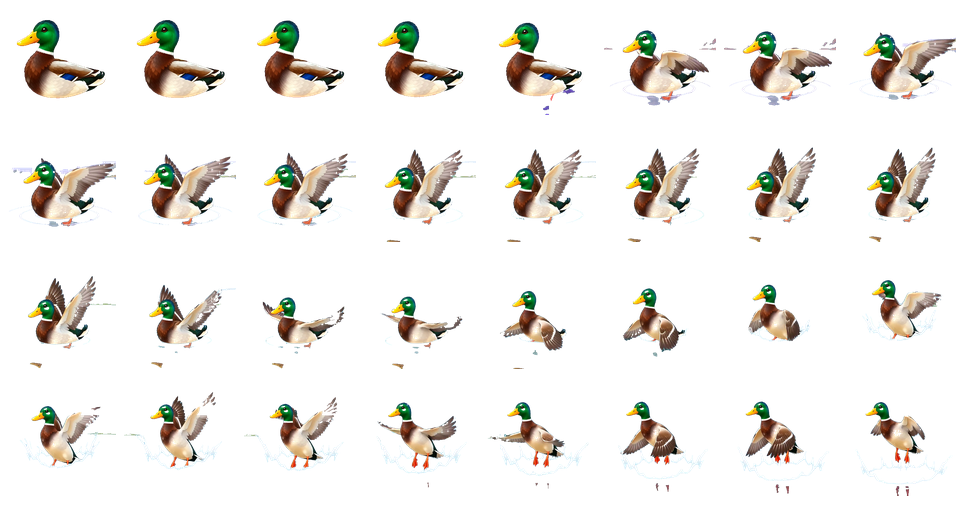
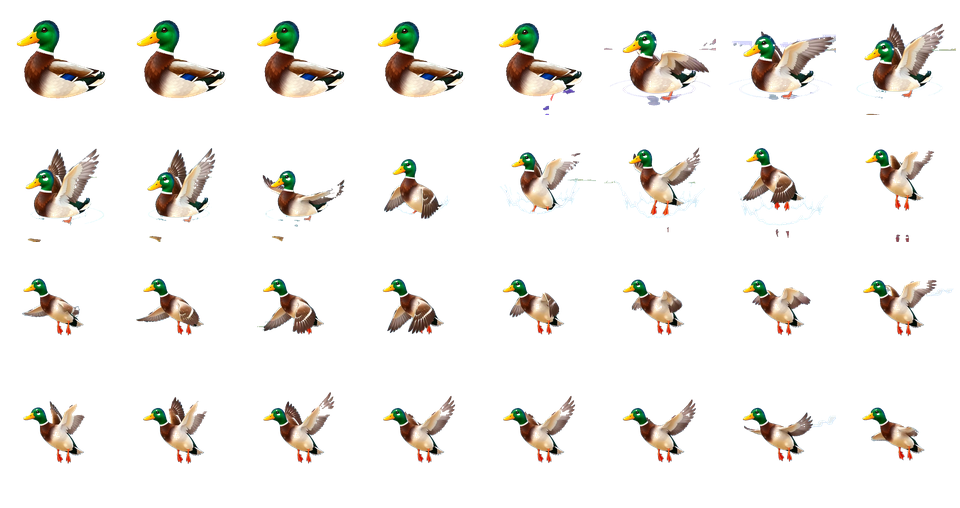
Fix ram look-around, duck flight loop and animal animation sizes

diff --git a/src/view/screen/ForestScreen.ts b/src/view/screen/ForestScreen.ts
@@ -1968,6 +1968,9 @@ export default class ForestScreen extends BaseForestScreen {
                 sprite.anchor.set(0.5);
                 sprite.width = 120;
                 sprite.height = 127;
+                if (animal == 'crab' || animal == 'bird') {
+                    sprite.scale.set(sprite.scale.x * 1.25, sprite.scale.y * 1.25);
+                }
                 sprite.alpha = 1;
                 const introCount = animal == 'butterfly2' ? 16 : animal == 'crab' ? 20 : 4;
                 const intro = sprite.animations.add('greet', Phaser.ArrayUtils.numberArray(0, introCount - 1), animal == 'butterfly2' ? 16 : 24, false);
@@ -1991,7 +1994,7 @@ export default class ForestScreen extends BaseForestScreen {
             });
             return;
         }
-        const introFrames = animal == 'butterfly' ? 4 : animal == 'duck' ? 2 : animal == 'fish' ? 8 : animal == 'ram' ? 6 : 12;
+        const introFrames = animal == 'butterfly' ? 4 : animal == 'duck' ? 16 : animal == 'fish' ? 8 : animal == 'ram' ? 14 : 12;
         const frameCount = animal == 'butterfly' ? 24 : 32;
         const frameRate = animal == 'bat' ? 13 : animal == 'rabbit' ? 24 : animal == 'ram' ? 16 : animal == 'fish' ? 22 : 30;
         const direction = animal == 'duck' || animal == 'ram' ? -1 : this.game.rnd.pick([-1, 1]);
@@ -2022,7 +2025,9 @@ export default class ForestScreen extends BaseForestScreen {
                 this.game.add.tween(sprite.scale).to({ x: sprite.scale.x * 1.95, y: sprite.scale.y * 1.95 },
                     1000, Phaser.Easing.Sinusoidal.Out, true);
             }
-            const intro = sprite.animations.add('look', Phaser.ArrayUtils.numberArray(0, introFrames - 1), frameRate, false);
+            // Ram frames 0–13 look around on the spot for one full second.
+            const introRate = animal == 'ram' ? 14 : animal == 'duck' ? 16 : frameRate;
+            const intro = sprite.animations.add('look', Phaser.ArrayUtils.numberArray(0, introFrames - 1), introRate, false);
             // Reuse only the upward-facing wingbeat; the tail of the source
             // clip turns around, which otherwise reads as backward flight.
             const flightFrames = animal == 'butterfly'
@@ -2106,19 +2111,10 @@ export default class ForestScreen extends BaseForestScreen {
                     });
                     return;
                 }
-                // The first five duck-sheet frames already show the takeoff.
-                // A second scripted lift made the mallard appear to launch twice.
+                // Duck takeoff plays once in the intro; escape loops airborne frames only.
                 travelOut();
             });
-            if (animal == 'ram') {
-                // Hold a genuinely still pose before starting the first hop.
-                sprite.frame = 0;
-                this.game.time.events.add(650, () => {
-                    if (sprite.exists) sprite.animations.play('look');
-                });
-            } else {
-                sprite.animations.play('look');
-            }
+            sprite.animations.play('look');
         }, this);
     }
 }

diff --git a/src/core/service/Settings.ts b/src/core/service/Settings.ts
@@ -9,7 +9,7 @@ export default class Settings {
     // Atlas PNG/JSON pairs are cached aggressively by GitHub Pages.  Bump this
     // whenever they change so a reload cannot combine a new frame map with an
     // older texture (which leaves part of a level invisible).
-    public static ATLASES_VERSION = "v18";
+    public static ATLASES_VERSION = "v19";
     public static isGraphicsFromAtlases():boolean{
         return Settings.GRAPHICS_FROM_ATLASES && !AdminService.isEditMode();
     }

diff --git a/tools/animal-video-sheets.py b/tools/animal-video-sheets.py
@@ -44,8 +44,9 @@ def compile_sheets(only=None):
         # the fish's final tiny, distant frames.
         'fish': np.linspace(0.0, 2.22, 32),
         'ram': np.linspace(0.0, 4.35, 32),
-        # Keep a few calm water frames, then the complete takeoff and splash.
-        'duck': np.r_[np.linspace(0.0, 0.46, 5), np.linspace(0.85, 2.20, 27)],
+        # Play the water takeoff once, then loop only the airborne wingbeat.
+        'duck': np.r_[np.linspace(0.0, 0.46, 5), np.linspace(0.85, 2.25, 11),
+                      np.linspace(2.48, 2.94, 16)],
     }
     for name, times in specs.items():
         if only and name != only:
@@ -96,6 +97,15 @@ def compile_sheets(only=None):
                         if np.any(labels[warm] == label) or dx*dx + dy*dy < (w*.29)**2:
                             kept[label] = 1
                     mask = kept[labels]
+                if t >= 2.48:
+                    # In flight the lake rings are separate from the bird.
+                    # Keep the component containing its green head, not water.
+                    head_labels = labels[green_head & (mask > 0)]
+                    head_labels = head_labels[head_labels != 0]
+                    if not len(head_labels):
+                        raise RuntimeError(f'Cannot isolate airborne duck at {t}')
+                    bird_label = np.bincount(head_labels).argmax()
+                    mask = (labels == bird_label).astype(np.uint8)
             # Source clips have a small creator watermark at the lower right.
             # Clear just that margin, outside the character's usable bounds.
             mask[int(mask.shape[0]*.89):, int(mask.shape[1]*.58):] = 0
